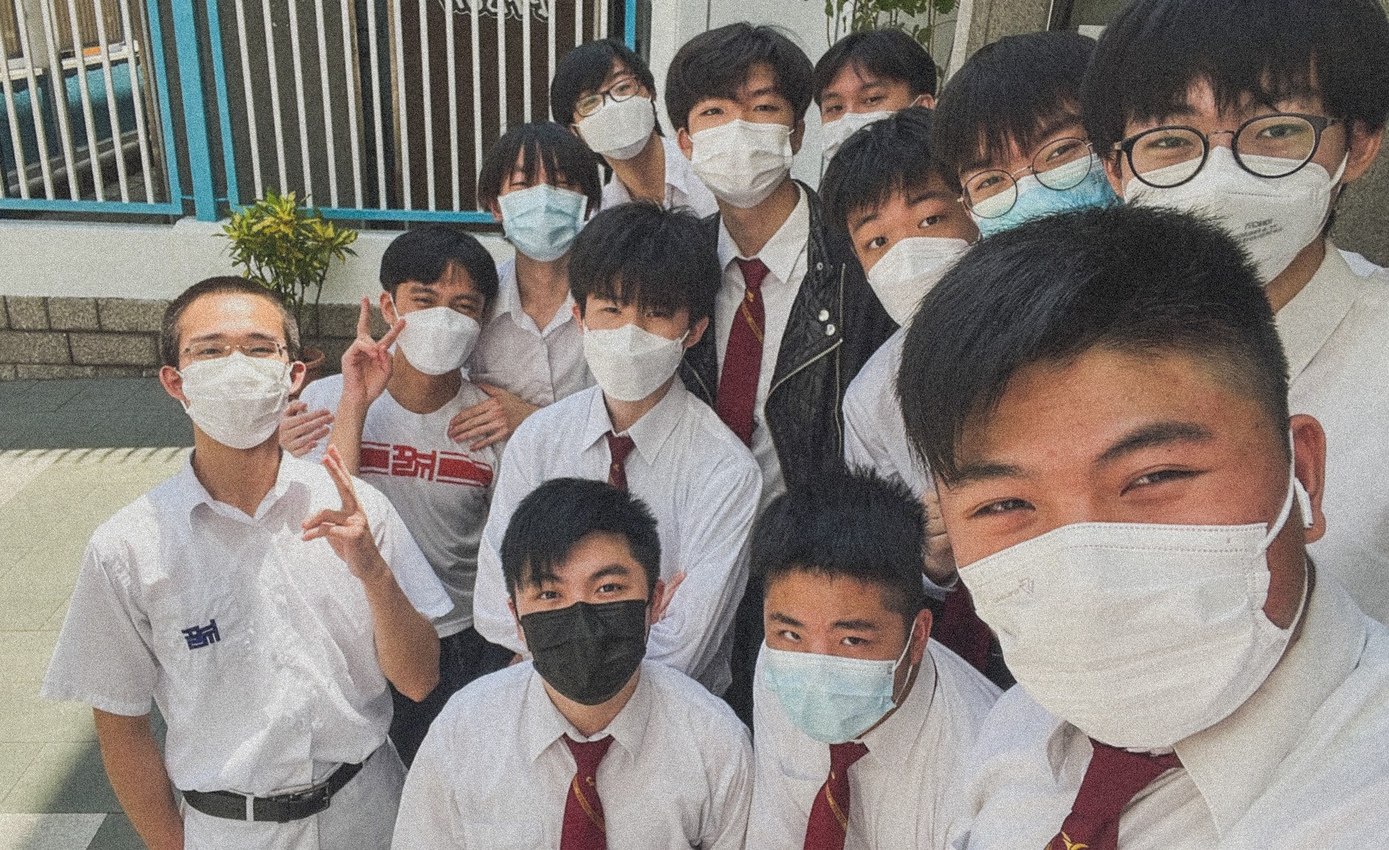
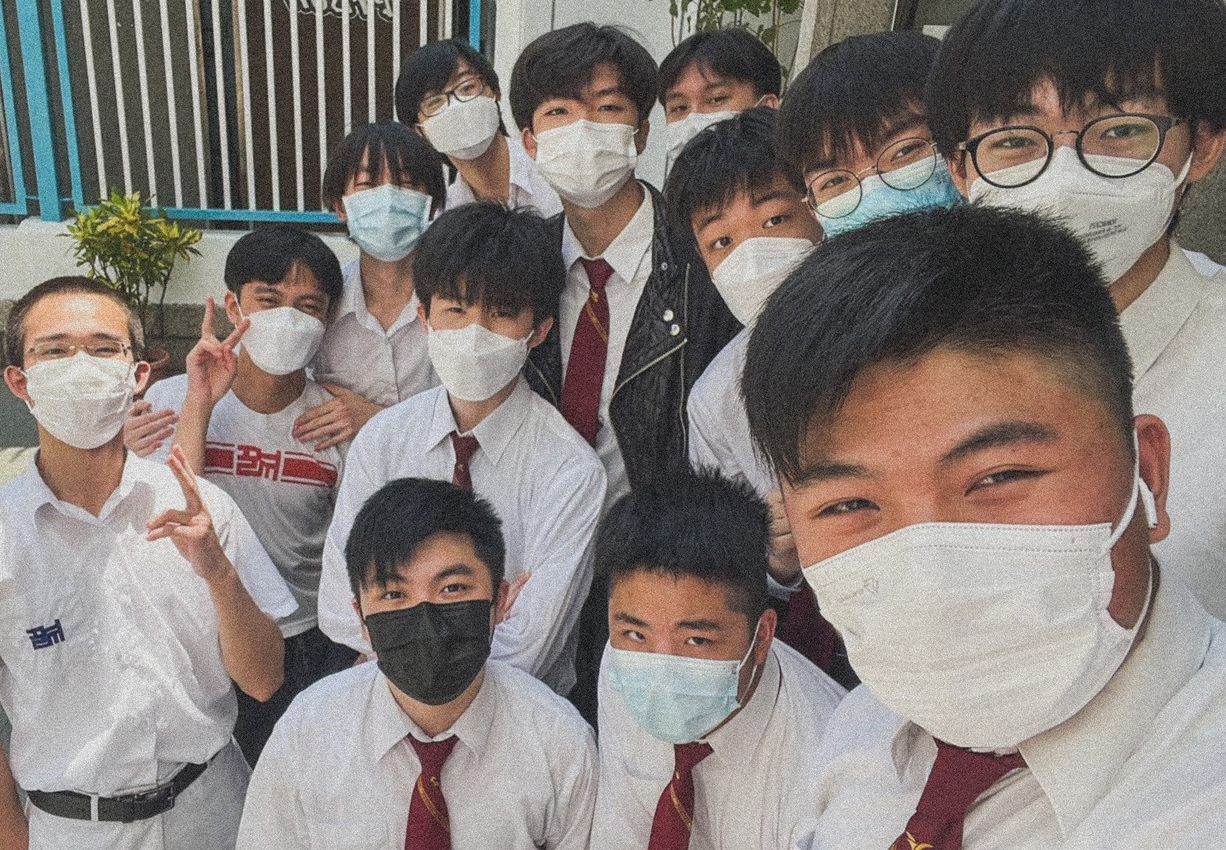
optimize hero for broader view

diff --git a/src/routes/HeroSection.svelte b/src/routes/HeroSection.svelte
@@ -43,7 +43,7 @@
             </div>
         </div>
         <div class="relative lg:col-span-5 lg:-mr-8 xl:absolute xl:inset-0 xl:left-1/2 xl:mr-0">
-            <img class="aspect-[3/2] w-full bg-hue1 object-cover lg:absolute lg:inset-0 lg:aspect-auto lg:h-full"
+            <img class="aspect-[3/2] w-full bg-hue1 bg-hero-i-like-food-[#ca9bd6] object-contain lg:absolute lg:inset-0 lg:aspect-auto lg:h-full"
                  src={cover} alt="Group of SXYA Members"/>
         </div>
     </div>

diff --git a/uno.config.ts b/uno.config.ts
@@ -7,6 +7,7 @@ import {
 } from 'unocss'
 import transformerVariantGroup from '@unocss/transformer-variant-group'
 import {presetRadix} from "unocss-preset-radix";
+import {presetHeroPatterns} from "@julr/unocss-preset-heropatterns";
 
 export default defineConfig({
   presets: [
@@ -25,6 +26,7 @@ export default defineConfig({
         'vertical-align': 'middle',
       },
     }),
+    presetHeroPatterns(),
     presetTypography(),
     presetWebFonts({
       fonts: {
